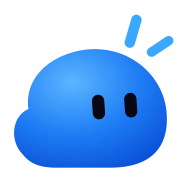
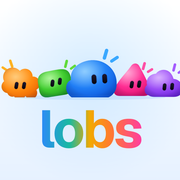
LP instalável (PWA): manifesto, service worker e ícone com os lobs
Ícone claro com os cinco lobs e o nome "lobs" embaixo (normal e mascarável),
apple-touch-icon e metas para instalar no iPhone e no Android.

diff --git a/public/sw.js b/public/sw.js
@@ -1,0 +1,45 @@
+// Service worker da LP: a página abre mesmo sem rede depois da primeira visita.
+// HTML vem da rede primeiro (sempre a versão nova); arquivos com hash vêm do cache.
+const CACHE = "lobs-lp-v1";
+
+self.addEventListener("install", (e) => {
+  e.waitUntil(caches.open(CACHE).then((c) => c.addAll(["/", "/manifest.webmanifest", "/icons/icon-192.png"])));
+  self.skipWaiting();
+});
+
+self.addEventListener("activate", (e) => {
+  e.waitUntil(
+    caches.keys().then((ks) => Promise.all(ks.filter((k) => k !== CACHE).map((k) => caches.delete(k)))).then(() => self.clients.claim()),
+  );
+});
+
+self.addEventListener("fetch", (e) => {
+  const req = e.request;
+  const url = new URL(req.url);
+  if (req.method !== "GET" || url.origin !== self.location.origin) return;
+  if (req.mode === "navigate") {
+    e.respondWith(
+      fetch(req)
+        .then((res) => {
+          const copia = res.clone();
+          caches.open(CACHE).then((c) => c.put("/", copia));
+          return res;
+        })
+        .catch(() => caches.match("/")),
+    );
+    return;
+  }
+  if (url.pathname.startsWith("/_astro/") || url.pathname.startsWith("/fonts/") || url.pathname.startsWith("/icons/") || url.pathname.startsWith("/logos/")) {
+    e.respondWith(
+      caches.match(req).then(
+        (hit) =>
+          hit ||
+          fetch(req).then((res) => {
+            const copia = res.clone();
+            caches.open(CACHE).then((c) => c.put(req, copia));
+            return res;
+          }),
+      ),
+    );
+  }
+});
